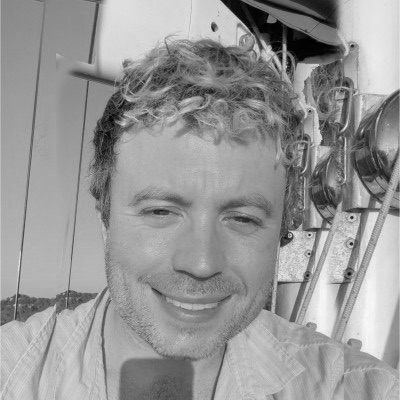
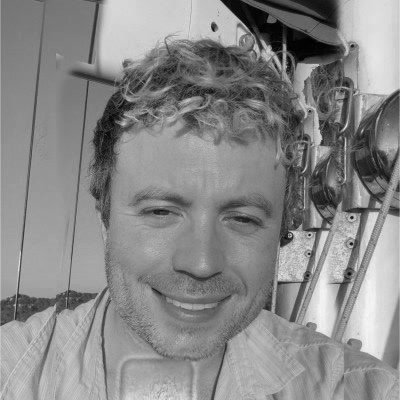
Portraits: phone shadow removed, a background for Matthew, contrast on both
Joe: the phone cast a rounded-rectangle shadow on his shirt. It is a shadow
rather than the phone body — the fabric keeps about 60% of the surrounding
texture energy underneath it — so it is divided out rather than painted over,
and the folds survive. The correction is a low-frequency gain field, estimated
by diffusing the surrounding luminance across the shadow and iterating to
convergence, plus a finer pass for the ~3px penumbra the coarse field cannot
see. Applied through a wide, softly feathered mask so the boundary lands where
the gain is already 1.0 and leaves no ring.

Matthew: the wall behind him is the same colour as his shirt AND connected to
it down the left edge, so neither a colour key nor a flood fill separates the
two. Severing that bridge with a morphological opening does. Composited onto an
out-of-focus canopy, lifted toward the luminance of the wall it replaces so his
edges stay plausible, and flattened because the page now adds contrast.

Both portraits get filter: contrast(120%).

Also drops the "Whoever is on your first call" line from Joe's bio.

Claude-Session: https://claude.ai/code/session_01Y17k85L9Yvn5HAWcoactjE

Changed region(s): [[0.27, 0.9, 0.51, 1.0]]

diff --git a/index.html b/index.html
@@ -176,7 +176,7 @@
             <h2>Joe Waine</h2>
             <p class="label" style="margin-top: 0.5rem;">Principal</p>
             <p class="text-large" style="margin-top: 1rem; margin-bottom: 0; max-width: 62ch;">
-              Joe has been building for the web since 2013: agency work for big brands, then in-house, then a decade working straight for owners. Also native iOS and Mac apps, and the unglamorous plumbing that connects a business's software to itself. Whoever is on your first call designs the page and writes the code. We take a few jobs at a time.
+              Joe has been building for the web since 2013: agency work for big brands, then in-house, then a decade working straight for owners. Also native iOS and Mac apps, and the unglamorous plumbing that connects a business's software to itself.
             </p>
           </div>
         </div>

diff --git a/styles.css b/styles.css
@@ -204,7 +204,7 @@ header {
   border: 1px solid var(--border-color);
 }
 
-.principal-photo img { display: block; width: 100%; height: auto; }
+.principal-photo img { display: block; width: 100%; height: auto; filter: contrast(120%); }
 
 /* Keeps a second person's text on the same column as the first's when there
    is no portrait to hold the space. */
